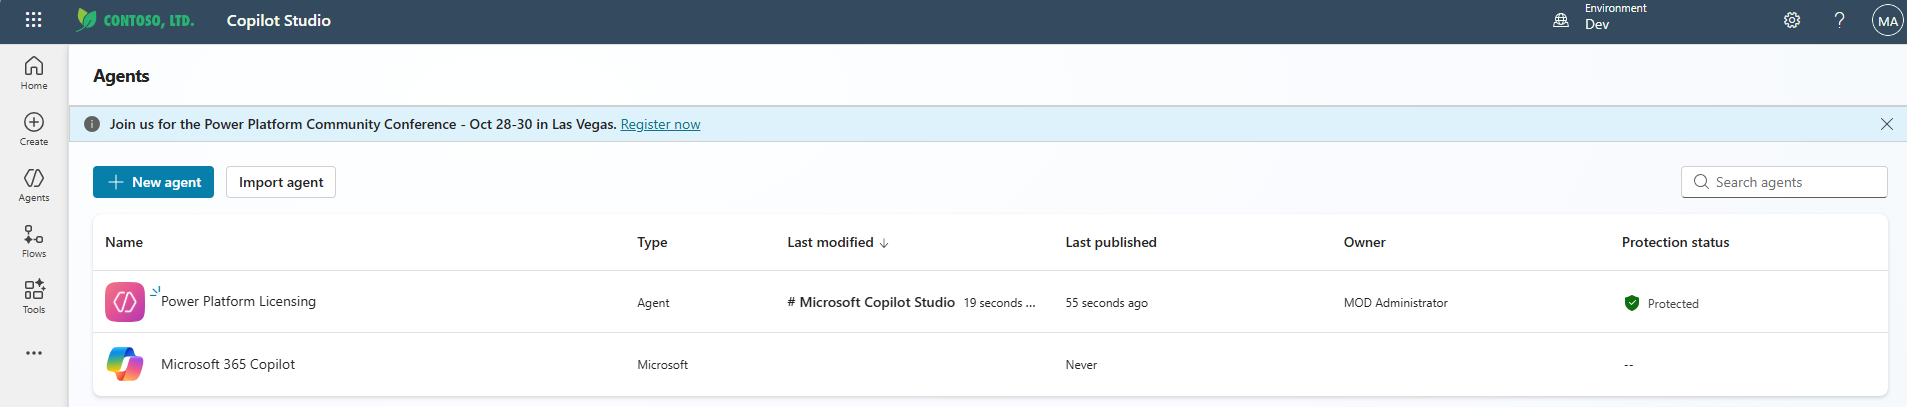
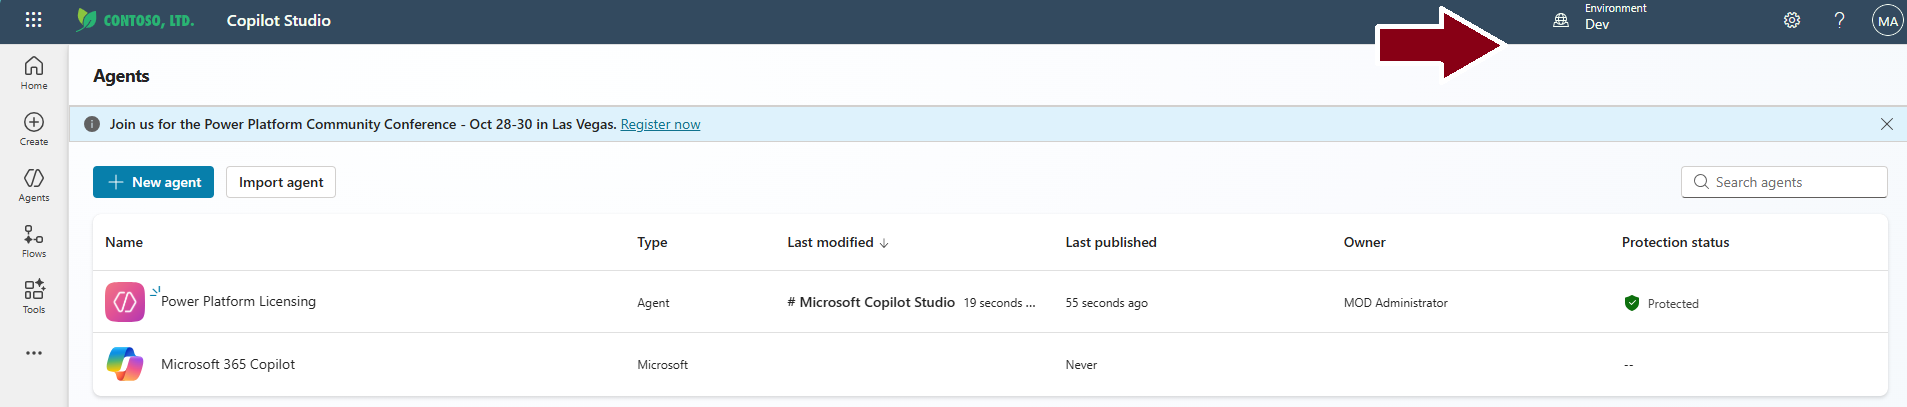
first version of the manual export import

Changed region(s): [[0.7116, 0.0295, 0.8044, 0.1769]]

diff --git a/labs/1.6-application-lifecycle-management/1.6.1-manual-import-export.md b/labs/1.6-application-lifecycle-management/1.6.1-manual-import-export.md
@@ -16,7 +16,7 @@ Before starting:
 
 ---
 
-## Step 1: Navigate to Copilot Studio Portal
+## Step 1: Navigate to Copilot Studio
 1. Go to https://copilotstudio.microsoft.com.
 2. In the **Environment selector** (top-right corner), choose the environment where the solution currently resides.
 
@@ -25,11 +25,13 @@ Before starting:
 ---
 
 ## Step 2: Locate the Solution
-1. In the left navigation pane, select **Solutions**.
-2. Find the solution you want to export.
-   - Use the search bar if needed.
+1. In the left navigation pane, click "..." and select **Solutions**.
+2. Create a new solution for you to add the agent and it's components.
+3. Name the solution "Power Platform Licensing Agent Solution".
+4. Select an existing publisher or create one (if needed).
+5. Create solution.
 
-images/copilot-solutions-page.png
+![Environment Selector](../..images/copilot-solutions-page.png)
 
 ---
 
@@ -39,8 +41,9 @@ images/copilot-solutions-page.png
 3. Search for **“Power Platform Licensing”**.
 4. Select the agent and click **Add**.
 5. Confirm the agent is now listed in the solution components.
+6. Remember that if you have dependent components for your agent (e.g environment variables, connection references, etc) you should also add them to the solution.
 
-images/copilot-add-agent.png
+![Add agent to solution](../../images/copilot-add-agent.png)
 
 ---
 
@@ -48,31 +51,31 @@ images/copilot-add-agent.png
 1. In the solution view, click **Export** (top menu).
 2. Choose **Publish all customizations** when prompted.
 3. Select the **Solution type**:
-   - **Managed**: For production environments.
+   - **Managed**: For production and test environments.
    - **Unmanaged**: For development environments.
 4. Click **Next**, then **Export**.
-5. Wait for the export to complete and download the `.zip` file.
+5. Wait for the export to complete and download the '.zip' file.
 
-images/copilot-export-solution.png
+![Export Solution](../..images/copilot-export-solution.png)
 
 ---
 
 ## Step 5: Switch to the Target Environment
 1. In the **Environment selector**, choose the new environment where you want to import the solution.
 
-images/copilot-switch-environment.png
+![Switch Environment](../../images/copilot-switch-environment.png)
 
 ---
 
 ## Step 6: Import the Solution
 1. In the left navigation pane, select **Solutions**.
 2. Click **Import**.
-3. Upload the `.zip` file you exported.
+3. Upload the '.zip' file you exported.
 4. Review the details and click **Next**.
 5. If prompted for **connection references** or **environment variables**, configure them.
 6. Click **Import** and wait for the process to finish.
 
-images/copilot-import-solution.png
+![Import Solution](../..images/copilot-import-solution.png)
 
 ---
 
@@ -82,7 +85,7 @@ images/copilot-import-solution.png
    - All components are present.
    - The agent **“Power Platform Licensing”** is included.
 
-images/copilot-verify-import.png
+![Verify Import](../../images/copilot-verify-import.png)
 
 ---
 
